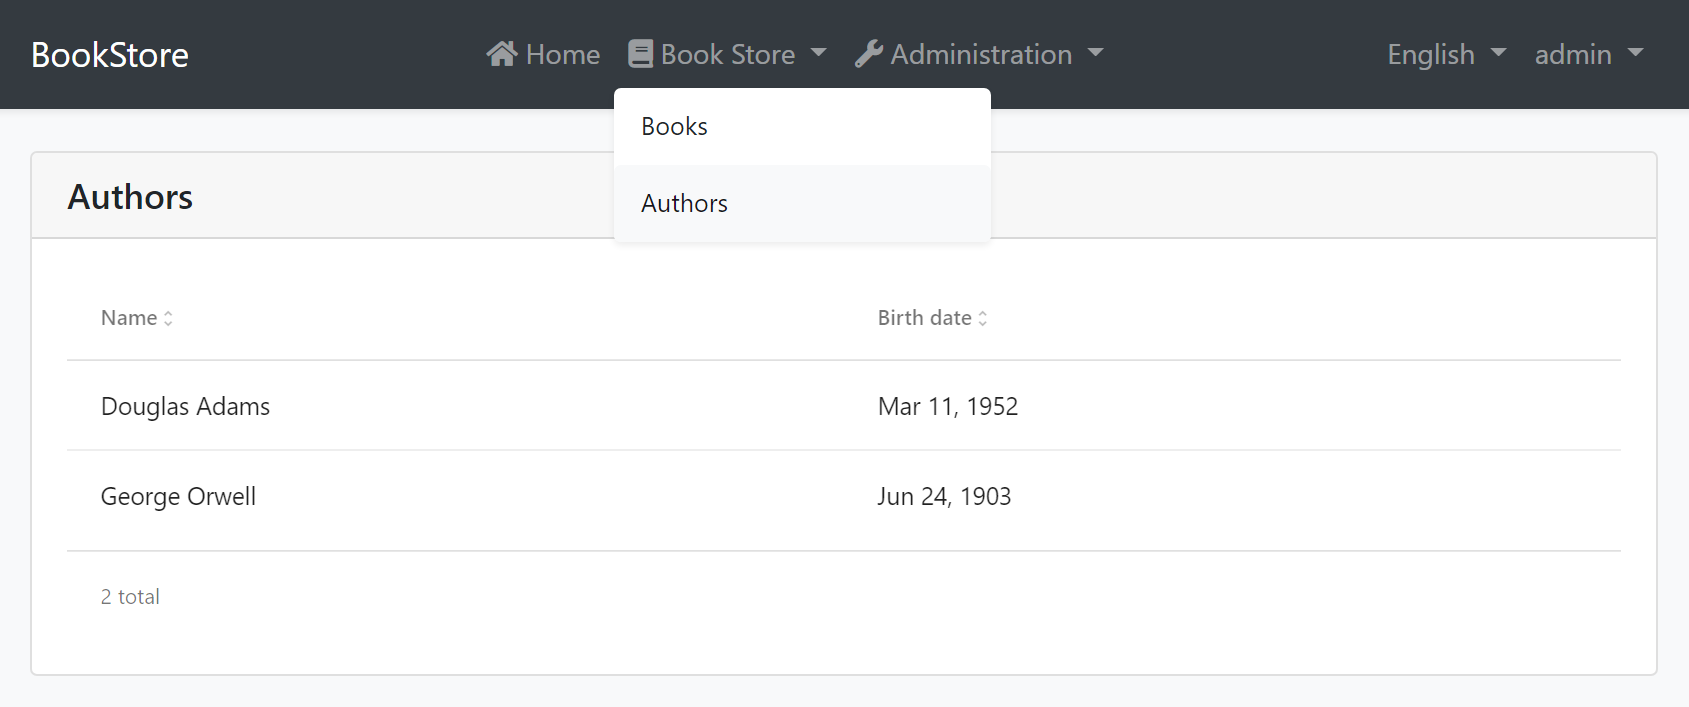
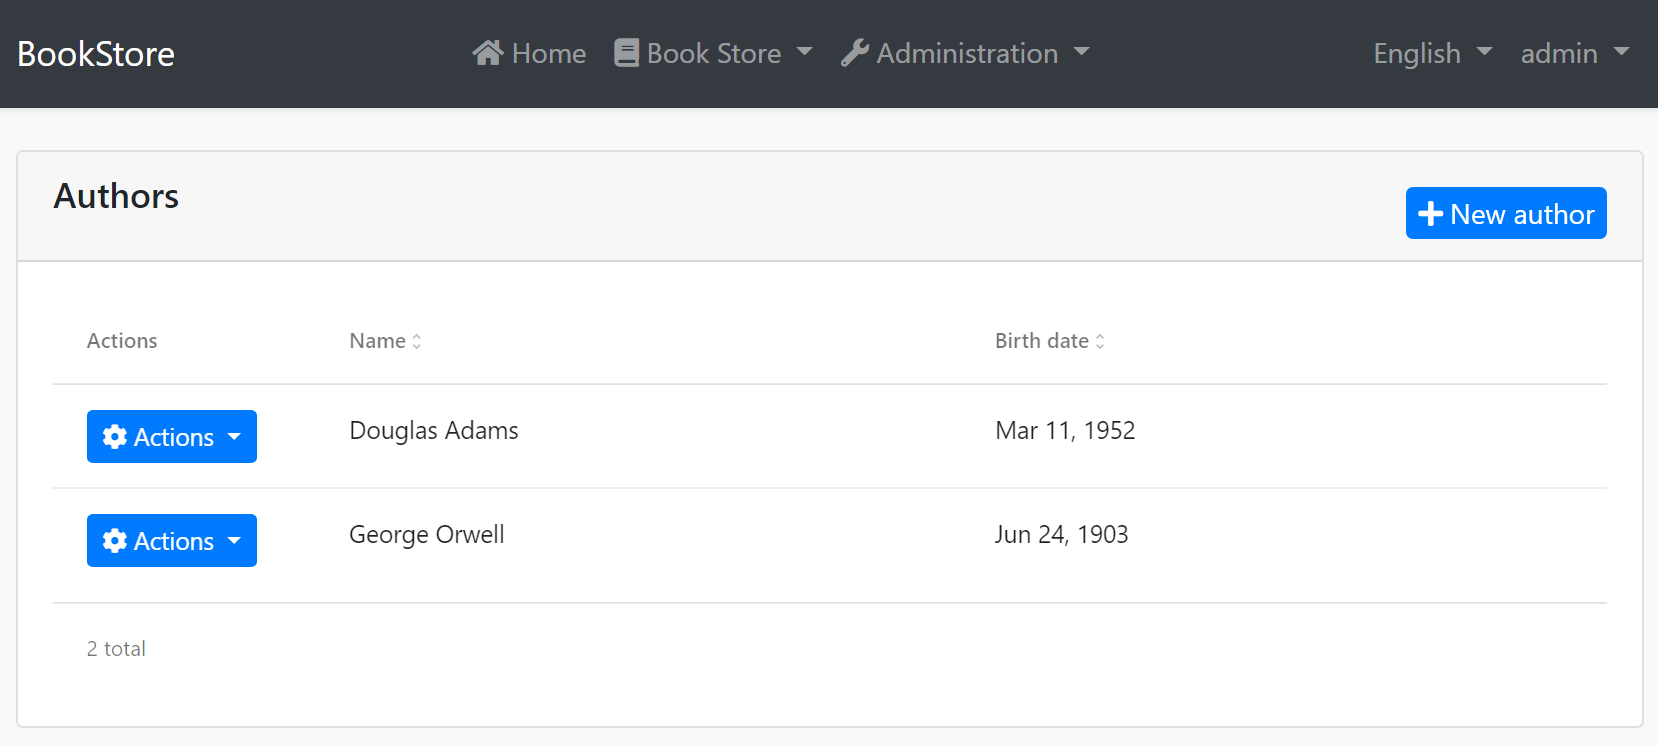
Finished the author management

diff --git a/docs/en/Tutorials/Part-9.md b/docs/en/Tutorials/Part-9.md
@@ -509,9 +509,9 @@ That's all! You can run the application and try to edit an author.
 
 {{else if UI == "NG"}}
 
-## The Book List Page
+## The Author List Page, Create & Delete Authors
 
-Run the following command line to create a new module, named `BookModule` in the root folder of the angular application:
+Run the following command line to create a new module, named `AuthorModule` in the root folder of the angular application:
 
 ```bash
 yarn ng generate module author --module app --routing --route authors
@@ -543,16 +543,18 @@ import { NgModule } from '@angular/core';
 import { SharedModule } from '../shared/shared.module';
 import { AuthorRoutingModule } from './author-routing.module';
 import { AuthorComponent } from './author.component';
+import { NgbDatepickerModule } from '@ng-bootstrap/ng-bootstrap';
 
 @NgModule({
   declarations: [AuthorComponent],
-  imports: [SharedModule, AuthorRoutingModule],
+  imports: [SharedModule, AuthorRoutingModule, NgbDatepickerModule],
 })
 export class AuthorModule {}
 ```
 
 - Added the `SharedModule`. `SharedModule` exports some common modules needed to create user interfaces.
 - `SharedModule` already exports the `CommonModule`, so we've removed the `CommonModule`.
+- Added `NgbDatepickerModule` that will be used later on the author create and edit forms.
 
 ### Menu Definition
 
@@ -630,17 +632,31 @@ import { Component, OnInit } from '@angular/core';
 import { ListService, PagedResultDto } from '@abp/ng.core';
 import { AuthorDto } from './models';
 import { AuthorService } from './services';
+import { FormGroup, FormBuilder, Validators } from '@angular/forms';
+import { NgbDateNativeAdapter, NgbDateAdapter } from '@ng-bootstrap/ng-bootstrap';
+import { ConfirmationService, Confirmation } from '@abp/ng.theme.shared';
 
 @Component({
   selector: 'app-author',
   templateUrl: './author.component.html',
   styleUrls: ['./author.component.scss'],
-  providers: [ListService],
+  providers: [ListService, { provide: NgbDateAdapter, useClass: NgbDateNativeAdapter }],
 })
 export class AuthorComponent implements OnInit {
   author = { items: [], totalCount: 0 } as PagedResultDto<AuthorDto>;
 
-  constructor(public readonly list: ListService, private authorService: AuthorService) {}
+  isModalOpen = false;
+
+  form: FormGroup;
+
+  selectedAuthor = new AuthorDto();
+
+  constructor(
+    public readonly list: ListService,
+    private authorService: AuthorService,
+    private fb: FormBuilder,
+    private confirmation: ConfirmationService
+  ) {}
 
   ngOnInit(): void {
     const authorStreamCreator = (query) => this.authorService.getListByInput(query);
@@ -649,13 +665,161 @@ export class AuthorComponent implements OnInit {
       this.author = response;
     });
   }
+
+  createAuthor() {
+    this.selectedAuthor = new AuthorDto();
+    this.buildForm();
+    this.isModalOpen = true;
+  }
+
+  editAuthor(id: string) {
+    this.authorService.getById(id).subscribe((author) => {
+      this.selectedAuthor = author;
+      this.buildForm();
+      this.isModalOpen = true;
+    });
+  }
+
+  buildForm() {
+    this.form = this.fb.group({
+      name: [this.selectedAuthor.name || '', Validators.required],
+      birthDate: [
+        this.selectedAuthor.birthDate ? new Date(this.selectedAuthor.birthDate) : null,
+        Validators.required,
+      ],
+    });
+  }
+
+  save() {
+    if (this.form.invalid) {
+      return;
+    }
+
+    if (this.selectedAuthor.id) {
+      this.authorService
+        .updateByIdAndInput(this.form.value, this.selectedAuthor.id)
+        .subscribe(() => {
+          this.isModalOpen = false;
+          this.form.reset();
+          this.list.get();
+        });
+    } else {
+      this.authorService.createByInput(this.form.value).subscribe(() => {
+        this.isModalOpen = false;
+        this.form.reset();
+        this.list.get();
+      });
+    }
+  }
+
+  delete(id: string) {
+    this.confirmation.warn('::AreYouSureToDelete', '::AreYouSure')
+        .subscribe((status) => {
+          if (status === Confirmation.Status.confirm) {
+            this.authorService.deleteById(id).subscribe(() => this.list.get());
+          }
+	    });
+  }
 }
 ```
 
-- We imported and injected the generated `AuthorService`.
-- We are using the [ListService](https://docs.abp.io/en/abp/latest/UI/Angular/List-Service), a utility service of the ABP Framework which provides easy pagination, sorting and searching.
-
 Open the `/src/app/author/author.component.html` and replace the content as below:
+
+````html
+<div class="card">
+  <div class="card-header">
+    <div class="row">
+      <div class="col col-md-6">
+        <h5 class="card-title">
+          {{ '::Menu:Authors' | abpLocalization }}
+        </h5>
+      </div>
+      <div class="text-right col col-md-6">
+        <div class="text-lg-right pt-2">
+          <button id="create" class="btn btn-primary" type="button" (click)="createAuthor()">
+            <i class="fa fa-plus mr-1"></i>
+            <span>{{ '::NewAuthor' | abpLocalization }}</span>
+          </button>
+        </div>
+      </div>
+    </div>
+  </div>
+  <div class="card-body">
+    <ngx-datatable [rows]="author.items" [count]="author.totalCount" [list]="list" default>
+      <ngx-datatable-column
+        [name]="'::Actions' | abpLocalization"
+        [maxWidth]="150"
+        [sortable]="false"
+      >
+        <ng-template let-row="row" ngx-datatable-cell-template>
+          <div ngbDropdown container="body" class="d-inline-block">
+            <button
+              class="btn btn-primary btn-sm dropdown-toggle"
+              data-toggle="dropdown"
+              aria-haspopup="true"
+              ngbDropdownToggle
+            >
+              <i class="fa fa-cog mr-1"></i>{{ '::Actions' | abpLocalization }}
+            </button>
+            <div ngbDropdownMenu>
+              <button ngbDropdownItem (click)="editAuthor(row.id)">
+                {{ '::Edit' | abpLocalization }}
+              </button>
+              <button ngbDropdownItem (click)="delete(row.id)">
+                {{ '::Delete' | abpLocalization }}
+              </button>
+            </div>
+          </div>
+        </ng-template>
+      </ngx-datatable-column>
+      <ngx-datatable-column [name]="'::Name' | abpLocalization" prop="name"></ngx-datatable-column>
+      <ngx-datatable-column [name]="'::BirthDate' | abpLocalization">
+        <ng-template let-row="row" ngx-datatable-cell-template>
+          {{ row.birthDate | date }}
+        </ng-template>
+      </ngx-datatable-column>
+    </ngx-datatable>
+  </div>
+</div>
+
+<abp-modal [(visible)]="isModalOpen">
+  <ng-template #abpHeader>
+    <h3>{{ (selectedAuthor.id ? '::Edit' : '::NewAuthor') | abpLocalization }}</h3>
+  </ng-template>
+
+  <ng-template #abpBody>
+    <form [formGroup]="form" (ngSubmit)="save()">
+      <div class="form-group">
+        <label for="author-name">Name</label><span> * </span>
+        <input type="text" id="author-name" class="form-control" formControlName="name" autofocus />
+      </div>
+
+      <div class="form-group">
+        <label>Birth date</label><span> * </span>
+        <input
+          #datepicker="ngbDatepicker"
+          class="form-control"
+          name="datepicker"
+          formControlName="birthDate"
+          ngbDatepicker
+          (click)="datepicker.toggle()"
+        />
+      </div>
+    </form>
+  </ng-template>
+
+  <ng-template #abpFooter>
+    <button type="button" class="btn btn-secondary" #abpClose>
+      {{ '::Close' | abpLocalization }}
+    </button>
+
+    <button class="btn btn-primary" (click)="save()" [disabled]="form.invalid">
+      <i class="fa fa-check mr-1"></i>
+      {{ '::Save' | abpLocalization }}
+    </button>
+  </ng-template>
+</abp-modal>
+````
 
 ### Localizations
 
@@ -669,8 +833,6 @@ This page uses some localization keys we need to declare. Open the `en.json` fil
 "NewAuthor": "New author"
 ````
 
-Notice that we've added more keys. They will be used in the next sections.
-
 ### Run the Application
 
 Run and login to the application. **You can not see the menu item since you don't have permission yet.** Go to the `identity/roles` page, click to the *Actions* button and select the *Permissions* action for the **admin role**:
@@ -680,6 +842,8 @@ Run and login to the application. **You can not see the menu item since you don'
 As you see, the admin role has no *Author Management* permissions yet. Click to the checkboxes and save the modal to grant the necessary permissions. You will see the *Authors* menu item under the *Book Store* in the main menu, after **refreshing the page**:
 
 ![bookstore-authors-page](images/bookstore-angular-authors-page.png)
+
+That's all! This is a fully working CRUD page, you can create, edit and delete authors.
 
 > **Tip**: If you run the `.DbMigrator` console application after defining a new permission, it automatically grants these new permissions to the admin role and you don't need to manually grant the permissions yourself.
 
